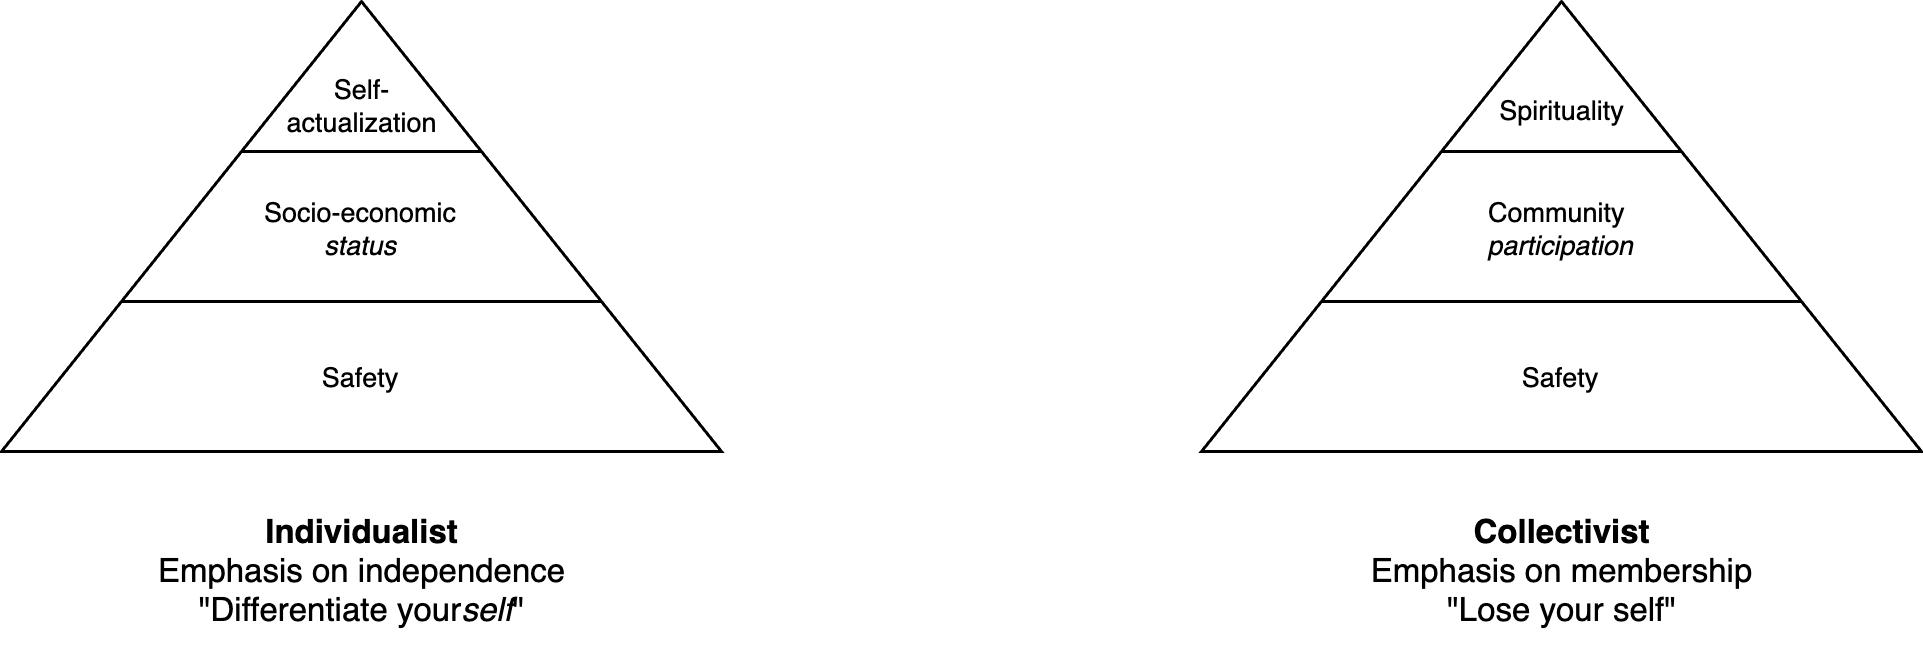
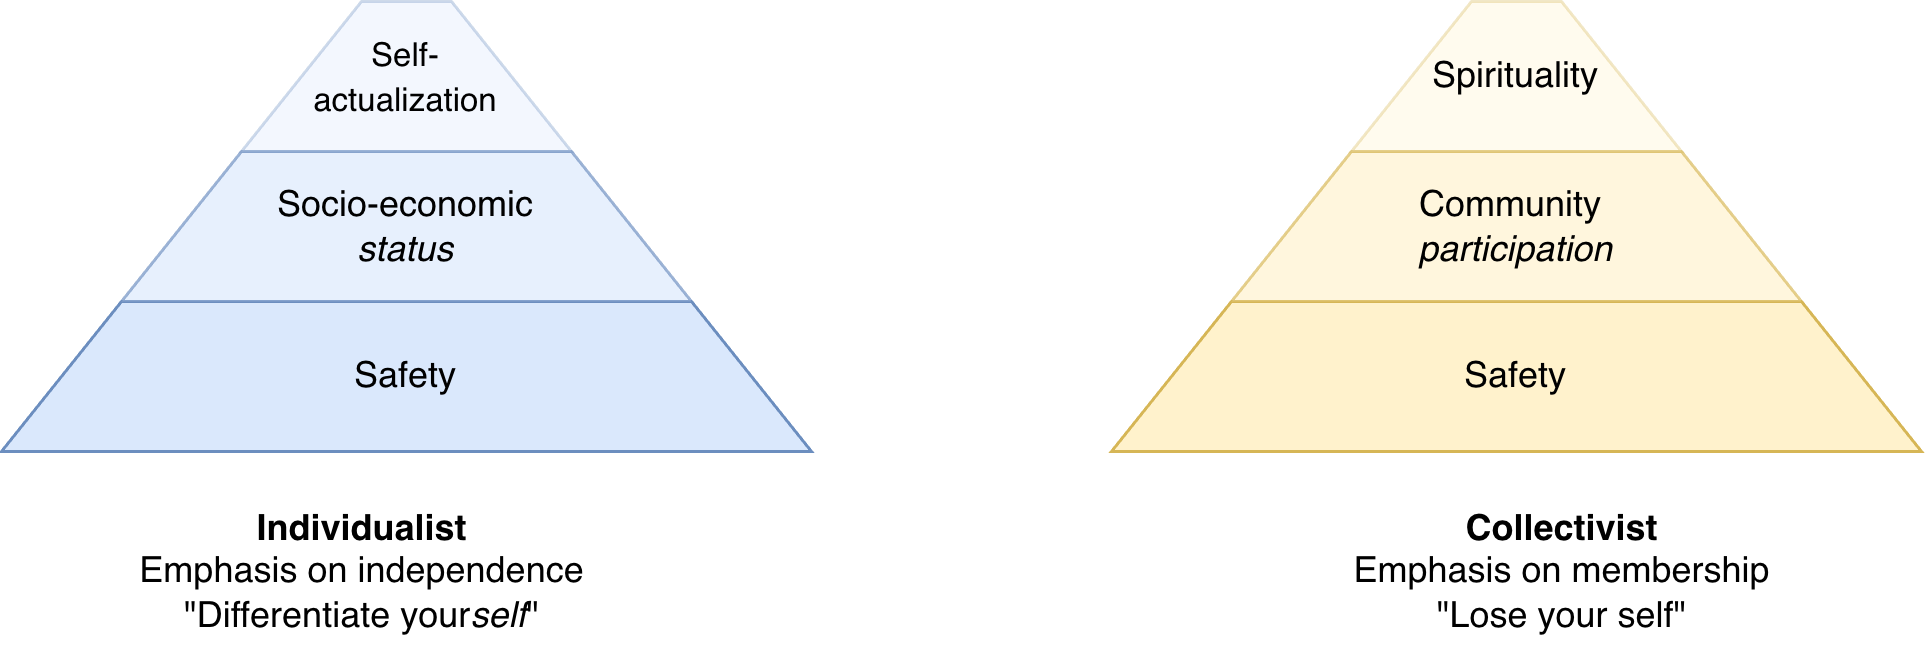
add models

diff --git a/metaphysics/being-becoming.md b/metaphysics/being-becoming.md
@@ -8,9 +8,9 @@ Reality consists of the present. The presents exists within time and space. Bein
 
 **Spatial view**
 
-In practice, we think of the present as all of space at a fixed moment in time. Adding the dimension of time, we can expand reality is by the past and the future. A spatial view considers the present to be a *moment* in time.
+In practice, we think of the present as all of space at a fixed moment in time. Adding the dimension of time, we can expand reality is by the past and the future. A spatial view considers the present to be a *moment* in time. Space may be thought of as continuous or discrete.
 
-**Temporal view**
+**Spatio-temporal view**
 
 The spatial view assumes that time is separate from space. Lifting this assumption allows us to consider time and space as arbitrary dimensions. Consequently, the present can be defined as an *area* within the dimensions of space and time.
 
@@ -18,7 +18,9 @@ The spatial view assumes that time is separate from space. Lifting this assumpti
 
 Now that we have introcuded the *present*, let us consider *existence*. Out of the many things that exist, some are perpetual. E.g. numbers can be said to exist, and to never change. They are static and have a static identity. Let **Being** denote all things that exist in the present in a stable, static fashion. In this definition, time and space are bounded.
 
-Being may be synomous with Plato's world of Forms, Lacan's symbolic world.
+Let *atomoi* refer to the smallest, indivisible objects (not to be confused with atoms in physics). Reality can be thought of to exist of atamoi and emptiness or nothingness. Atamoi are thought of be eternal, as to satisfy the criteria that realtiy is unchanging.
+
+Over time, many things change. E.g. a seed may grow into a tree. This is explained as follows. The seed is said to contain the essence of the tree. This essence is static and unchanging. A famous example of such a parallel non-physical reality is Plato's world of Forms.
 
 ## Becoming
 

diff --git a/psychology/desires.md b/psychology/desires.md
@@ -14,7 +14,7 @@ Two flavours of a simple model for desire and human needs.
 
 
 
-<img src="../img/pyramid-desire.png" alt="desire" style="width:90%;" />
+<img src="../img/pyramid-desire.png" alt="desire" style="width:51em;" />
 
 Typical desires:
 
@@ -23,13 +23,13 @@ Typical desires:
 
 
 
-|                  | Individualist Model                          | Collectivist Model            |
-| ---------------- | -------------------------------------------- | ----------------------------- |
-| **Success**      | "My" status (social, economic, intellectual) | Community or ideology         |
-| **Example**      | *Want to be the best*                        | *Desire to support an other*  |
-| **Bias**         | Global, objective metrics                    | Local, subjective connections |
-| **Risk**         | Optimize metrics                             | Stuck in tradition            |
-| **Anti-virtues** | Poverty suggests laziness                    | Wealth suggests exploitation  |
+|                  | Individualist Model                          | Collectivist Model           |
+| ---------------- | -------------------------------------------- | ---------------------------- |
+| **Success**      | "My" status (social, economic, intellectual) | Community or ideology        |
+| **Example**      | *Want to be the best*                        | *Desire to support an other* |
+| **Bias**         | Global, objective metrics                    | Local, informal connections  |
+| **Risk**         | Optimize metrics                             | Stuck in tradition           |
+| **Anti-virtues** | Poverty suggests laziness                    | Wealth suggests exploitation |
 
 
 

diff --git a/psychology/ideology.md b/psychology/ideology.md
@@ -1,0 +1,23 @@
+# Ideology
+
+
+
+## Freedom Paradox
+
+In the rules-first model, freedom emans equal chance and quality treatment. This is guaranteed by rules, institutions and contracts. Freedom from abusive individuals. Absense of rules would be chaotic.
+
+In the relationship-first model, freedom means an absense of state intervention. The freedom to negotiate on your own. The freedom to bend rules. Human warmth over cold procedure. A rule-based society would feel suffocating.
+
+A third model strifes for a balance. Harmonious cooperations.
+
+<img src="../img/rules-relationships-harmony.png" alt="individualism-patronage-freedom" style="width:45em;" />
+
+The rules-first model is associated with individualistic cultures. Rules protect the individual and come before the community. The relationship-first model is associated with patronage and kinship. Rules make way of informal agreements. The two relate to individualistic and collectivistic [desires](desires.md).
+
+<img src="../img/pyramid-desire.png" alt="desire" style="width:51em;" />
+
+## Ideology
+
+
+
+<img src="../img/factory-bazaar-temple.jpg" alt="factory-bazaar-temple" style="width:42em;" />

diff --git a/visuals.md b/visuals.md
@@ -32,6 +32,12 @@
 
 <img src="img/organization-progression.png" alt="organization-progression" style="width:54em;" />
 
+<img src="img/tree-rhizome.jpg" alt="tree-rhizome" style="width:36em;" />
+
+## Culture
+
+<img src="img/factory-bazaar-temple.jpg" alt="factory-bazaar-temple" style="width:42em;" />
+
 ## Management
 
 <img src="img/accountabilities-gardener.png" alt="accountabilities-gardener" style="width:42em;" />
